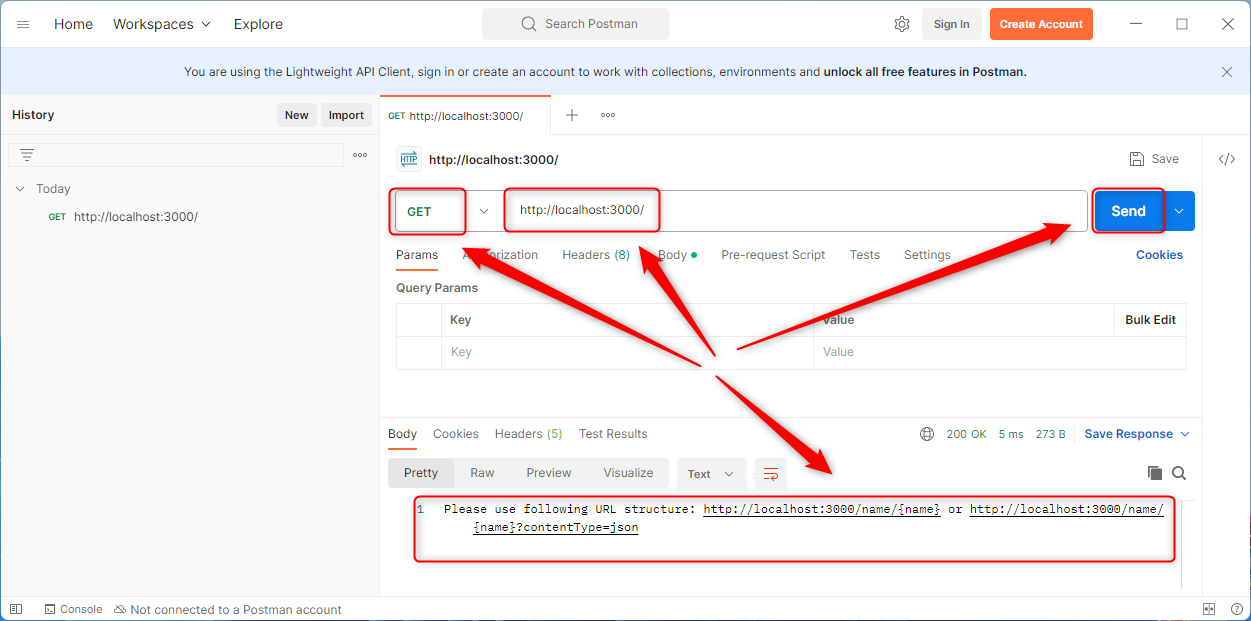
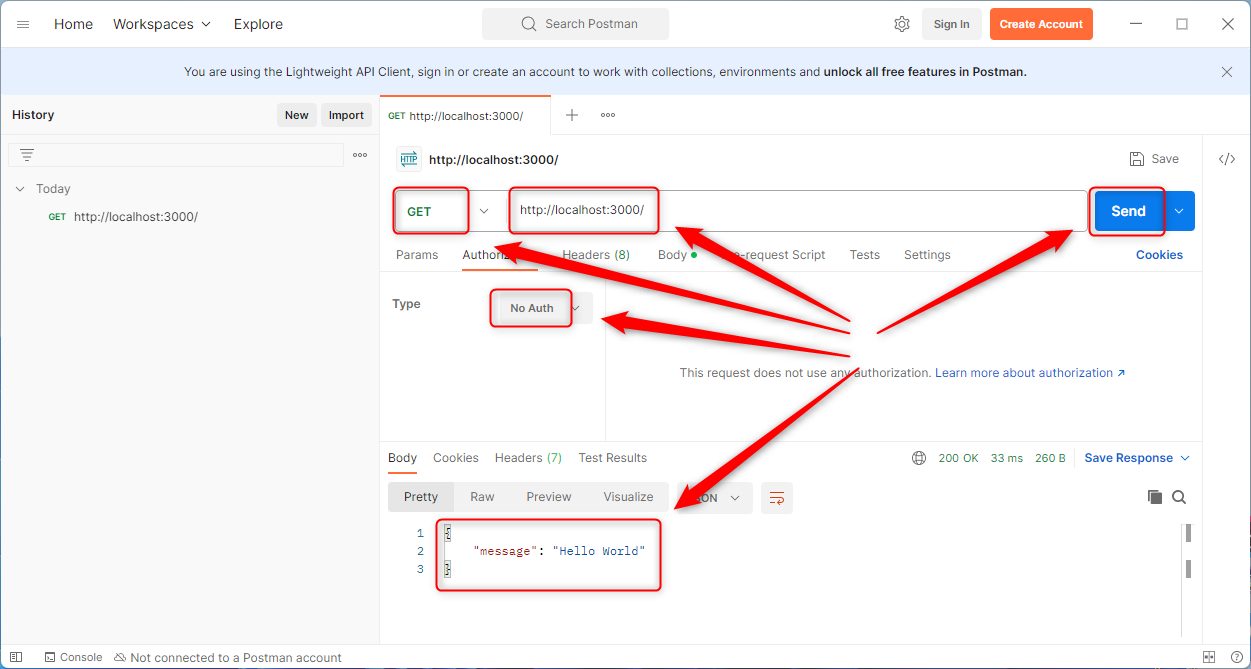
Add Readme images

diff --git a/technologies/security/api/rest/js-express-api-rest-helloworld-security-basic-auth/app.js b/technologies/security/api/rest/js-express-api-rest-helloworld-security-basic-auth/app.js
@@ -6,15 +6,15 @@ const app = express();
 app.use(express.json())
 
 app.get("/", (req, res) => {
-  res.json(JSON.parse('{"message": "Public Resource"}'))
+  res.json(JSON.parse('{"message": "Hello World"}'))
 })
 
 app.get("/user", authPage(["USER", "ADMIN"]), (req, res) => {
-  res.json(JSON.parse('{"message": "User Resource"}'))
+  res.json(JSON.parse('{"message": "Hello World User"}'))
 })
 
 app.get("/admin", authPage(["ADMIN"]), (req, res) => {
-  res.json(JSON.parse('{"message": "Admin Resource"}'))
+  res.json(JSON.parse('{"message": "Hello World Admin"}'))
 })
 
 app.all('*', function(req, res) {
